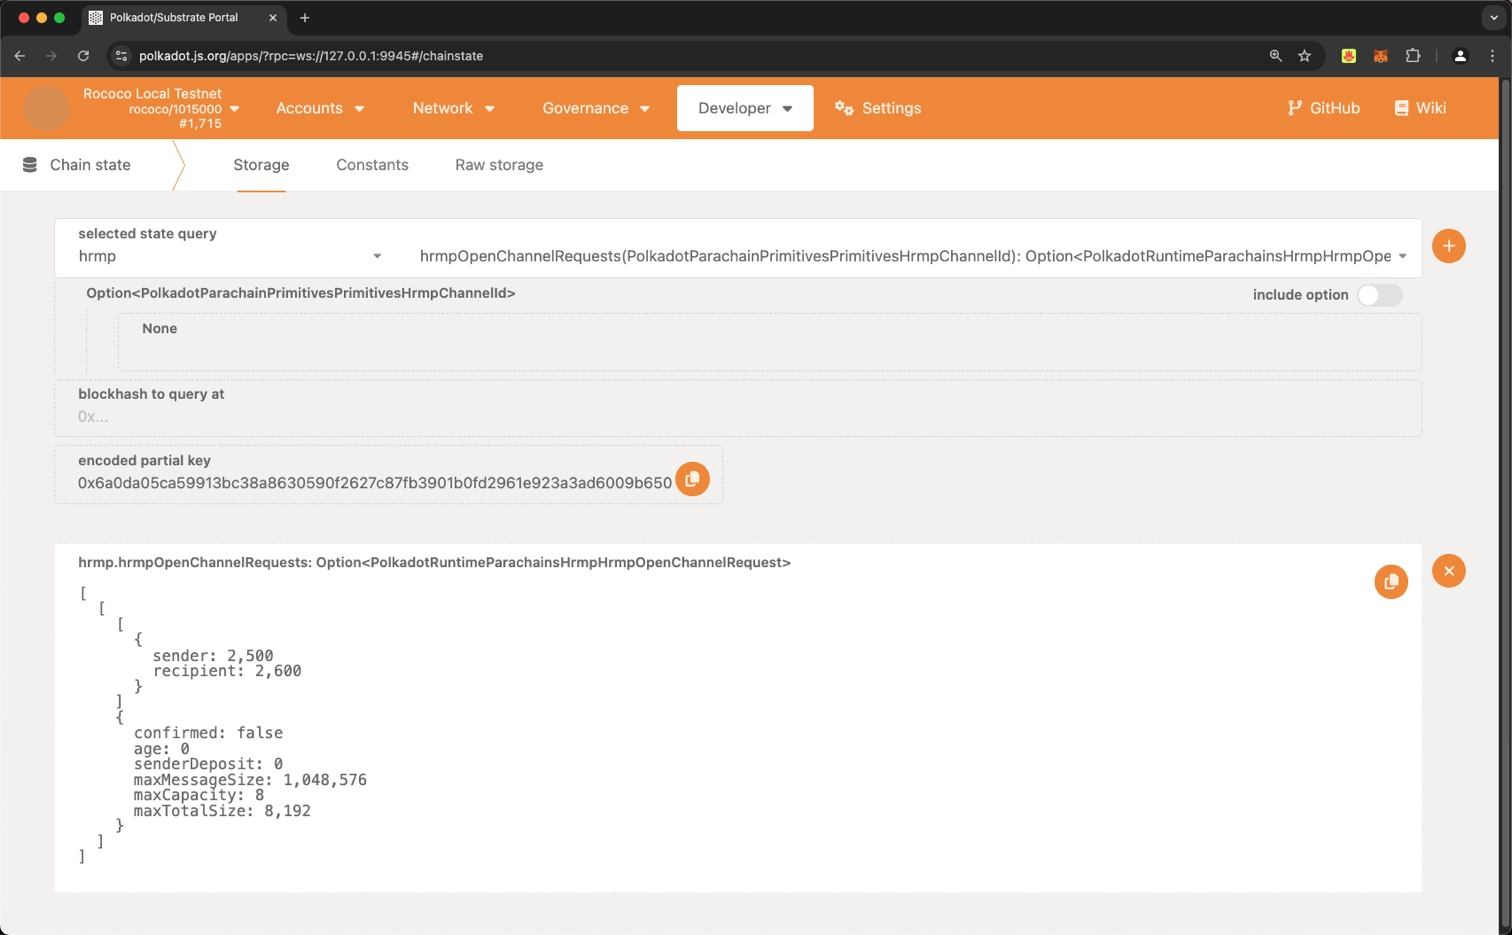
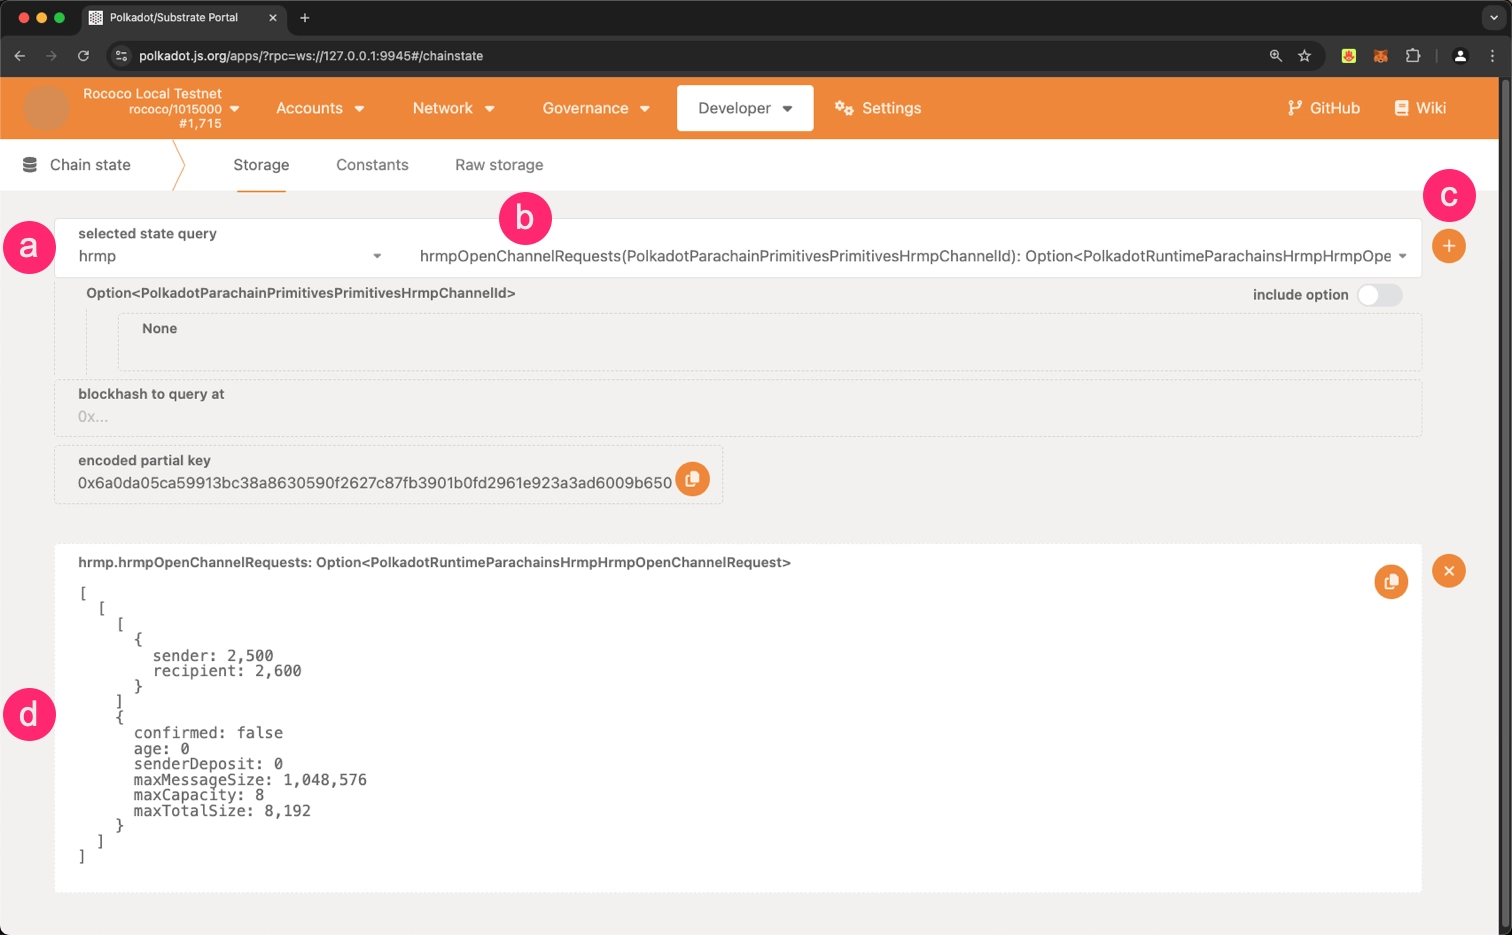
Update images and steps

diff --git a/docs/build-on-polkadot/xcm/hrmp-channels/overview.md b/docs/build-on-polkadot/xcm/hrmp-channels/overview.md
@@ -39,7 +39,11 @@ To view the current values of these parameters in the Polkadot network:
 
     ![](/polkadot-ecosystem-docs-draft/images/build-on-polkadot/hrmp-channels/hrmp-channels-1.webp)
 
-2. Under the **configuration** section, call the `activeConfig()` function by clicking the button with the **+** icon. This will display the current settings for all the Polkadot network parameters, including the HRMP channel settings
+2. Query the chain configuration parameters. The result will display the current settings for all the Polkadot network parameters, including the HRMP channel settings
+    1. Select **configuration**
+    2. Choose the **activeConfig()** call
+    3. Click the **+** button
+    4. Check the chain configuration
 
     ![](/polkadot-ecosystem-docs-draft/images/build-on-polkadot/hrmp-channels/hrmp-channels-2.webp)
 
@@ -73,7 +77,6 @@ Once both unidirectional channels are established, the parachains can send messa
 This example will demonstrate how to open a channel between parachain 2500 and parachain 2600, using Rococo Local as the relay chain.
 
 #### Step 1 - Fund Sovereign Account {: #init-fund-sovereign-account }
-<!-- <a id="init-fund-sovereign-account"></a> -->
 
 The [sovereign account](https://github.com/polkadot-fellows/xcm-format/blob/10726875bd3016c5e528c85ed6e82415e4b847d7/README.md?plain=1#L50){target=_blank} for parachain 2500 on the relay chain must be funded so it can take care of any XCM transact fees.
 
@@ -136,13 +139,11 @@ The XCM message should contain the following instructions:
 
 In essence, this process withdraws funds from the parachain's sovereign account to the XCVM Holding Register, then uses these funds to purchase execution time for the XCM Transact instruction, executes Transact, refunds any unused execution time and deposits any remaining funds into a specified account.
 
-To submit the XCM message:
+To send the XCM message to the relay chain, connect to parachain 2500 in Polkadot.js Apps. Fill in the required parameters as shown in the image below, ensuring that you:
 
-1. Connect to parachain 2500
-   
-2. Construct the XCM message by filling in all required parameters. Make sure to replace the **call** field with your encoded `hrmpInitOpenChannel` call data from the previous step
-   
-3. Click the **Submit Transaction** button to dispatch the XCM message to the relay chain.
+1. Replace the **call** field with your encoded `hrmpInitOpenChannel` call data from the previous step
+2. Use the correct beneficiary information
+3. Click the **Submit Transaction** button to dispatch the XCM message to the relay chain
 
 ![](/polkadot-ecosystem-docs-draft/images/build-on-polkadot/hrmp-channels/hrmp-channels-6.webp)
 
@@ -153,11 +154,17 @@ After submitting the XCM message to initiate the HRMP channel opening, you shoul
 
 1. Using Polkadot.js Apps, connect to the relay chain and navigate to the **Developer** dropdown, then select the **Chain state** option
 
-2. Under the **hrmp** section, select the `hrmpOpenChannelRequests` function. Click the button with the **+** icon next to it to call the function. This will display the status of all pending channel requests
+    ![](/polkadot-ecosystem-docs-draft/images/build-on-polkadot/hrmp-channels/hrmp-channels-11.webp)
+
+2. Query the hrmp open channel requests
+    1. Select **hrmp**
+    2. Choose the **hrmpOpenChannelRequests** call
+    3. Click the **+** button
+    4. Check the status of all pending channel requests
+
+    ![](/polkadot-ecosystem-docs-draft/images/build-on-polkadot/hrmp-channels/hrmp-channels-7.webp)
 
 If your channel request was successful, you should see an entry for your parachain ID in the list of open channel requests. This confirms that your request has been properly registered on the relay chain and is awaiting acceptance by the target parachain
-
-![](/polkadot-ecosystem-docs-draft/images/build-on-polkadot/hrmp-channels/hrmp-channels-7.webp)
 
 ### Procedure for Accepting HRMP Channel
 
@@ -190,22 +197,26 @@ To accept the HRMP channel opening, you need to create and submit an XCM message
 - Use the encoded call data for `hrmpAcceptOpenChannel` obtained in Step 2 of this section
 - In the last XCM instruction (DepositAsset), set the beneficiary to parachain 2600's sovereign account to receive any surplus funds
 
-To submit the XCM message:
+To send the XCM message to the relay chain, connect to parachain 2600 in Polkadot.js Apps. Fill in the required parameters as shown in the image below, ensuring that you:
 
-1. Connect to parachain 2600 using Polkadot.js Apps
-2. Construct the XCM message by filling in all required parameters, ensuring you use the correct encoded call data and beneficiary information
-3. Submit the transaction to dispatch the XCM message to the relay chain
-    ![](/polkadot-ecosystem-docs-draft/images/build-on-polkadot/hrmp-channels/hrmp-channels-9.webp)
+1. Replace the **call(()) field with your encoded `hrmpAcceptOpenChannel` call data from the previous step
+2. Use the correct beneficiary information
+3. Click the **Submit Transaction** button to dispatch the XCM message to the relay chain
+
+![](/polkadot-ecosystem-docs-draft/images/build-on-polkadot/hrmp-channels/hrmp-channels-9.webp)
 
 After submitting the XCM message to accept the HRMP channel opening, verify that the channel has been set up correctly.
 
 1. Connect to the relay chain using Polkadot.js Apps
 2. Navigate to the **Developer** dropdown and select **Chain state**
+   
+    ![](/polkadot-ecosystem-docs-draft/images/build-on-polkadot/hrmp-channels/hrmp-channels-11.webp)
+
 3. Under the **hrmp** section, query the **hrmpChannels** storage item
 
-If the channel has been successfully established, you should see the channel details in the query results.
+    ![](/polkadot-ecosystem-docs-draft/images/build-on-polkadot/hrmp-channels/hrmp-channels-10.webp)
 
-![](/polkadot-ecosystem-docs-draft/images/build-on-polkadot/hrmp-channels/hrmp-channels-10.webp)
+If the channel has been successfully established, you should see the channel details in the query results.
 
 By following these steps, you will have successfully accepted the HRMP channel request and established a unidirectional channel between the two parachains. 
 
